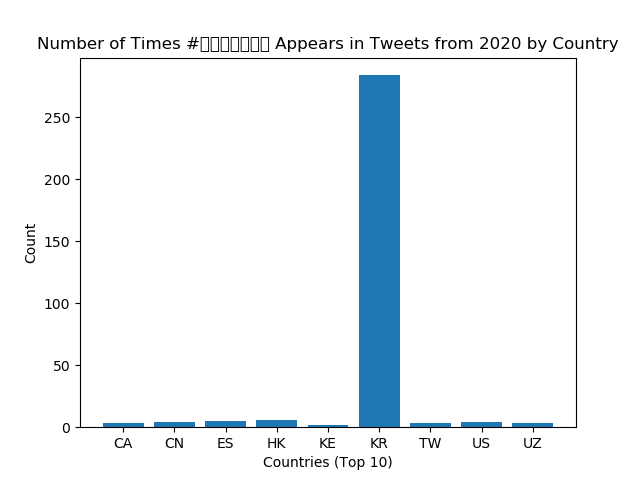
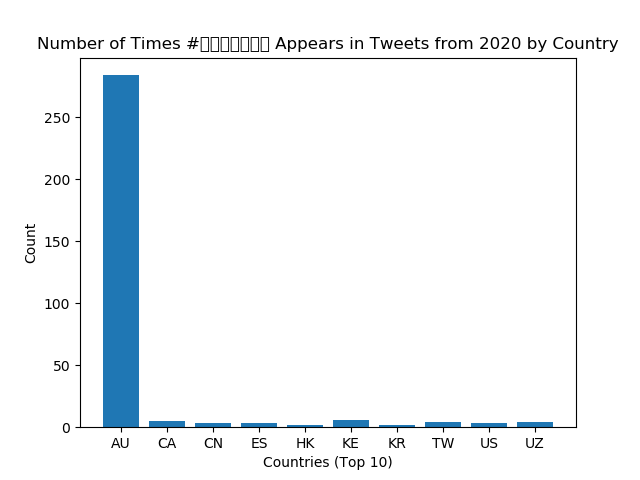
test

diff --git a/src/visualize.py b/src/visualize.py
@@ -30,9 +30,10 @@ for k,v in items:
     print(k,':',v)
 
 # plot bar graphs
-x_axis = [item[0] for item in sorted(items[:9])]
-y_axis = [item[1] for item in sorted(items[:9])]
-plt.bar(x_axis, y_axis)
+x_axis = [item[0] for item in items[:10]]
+y_axis = [item[1] for item in items[:10]]
+print(len(x_axis), len(y_axis))
+plt.bar(x_axis, sorted(y_axis))
 plt.ylabel("Count")
 if args.input_path == "reduced.country":
     plt.xlabel("Countries (Top 10)")
